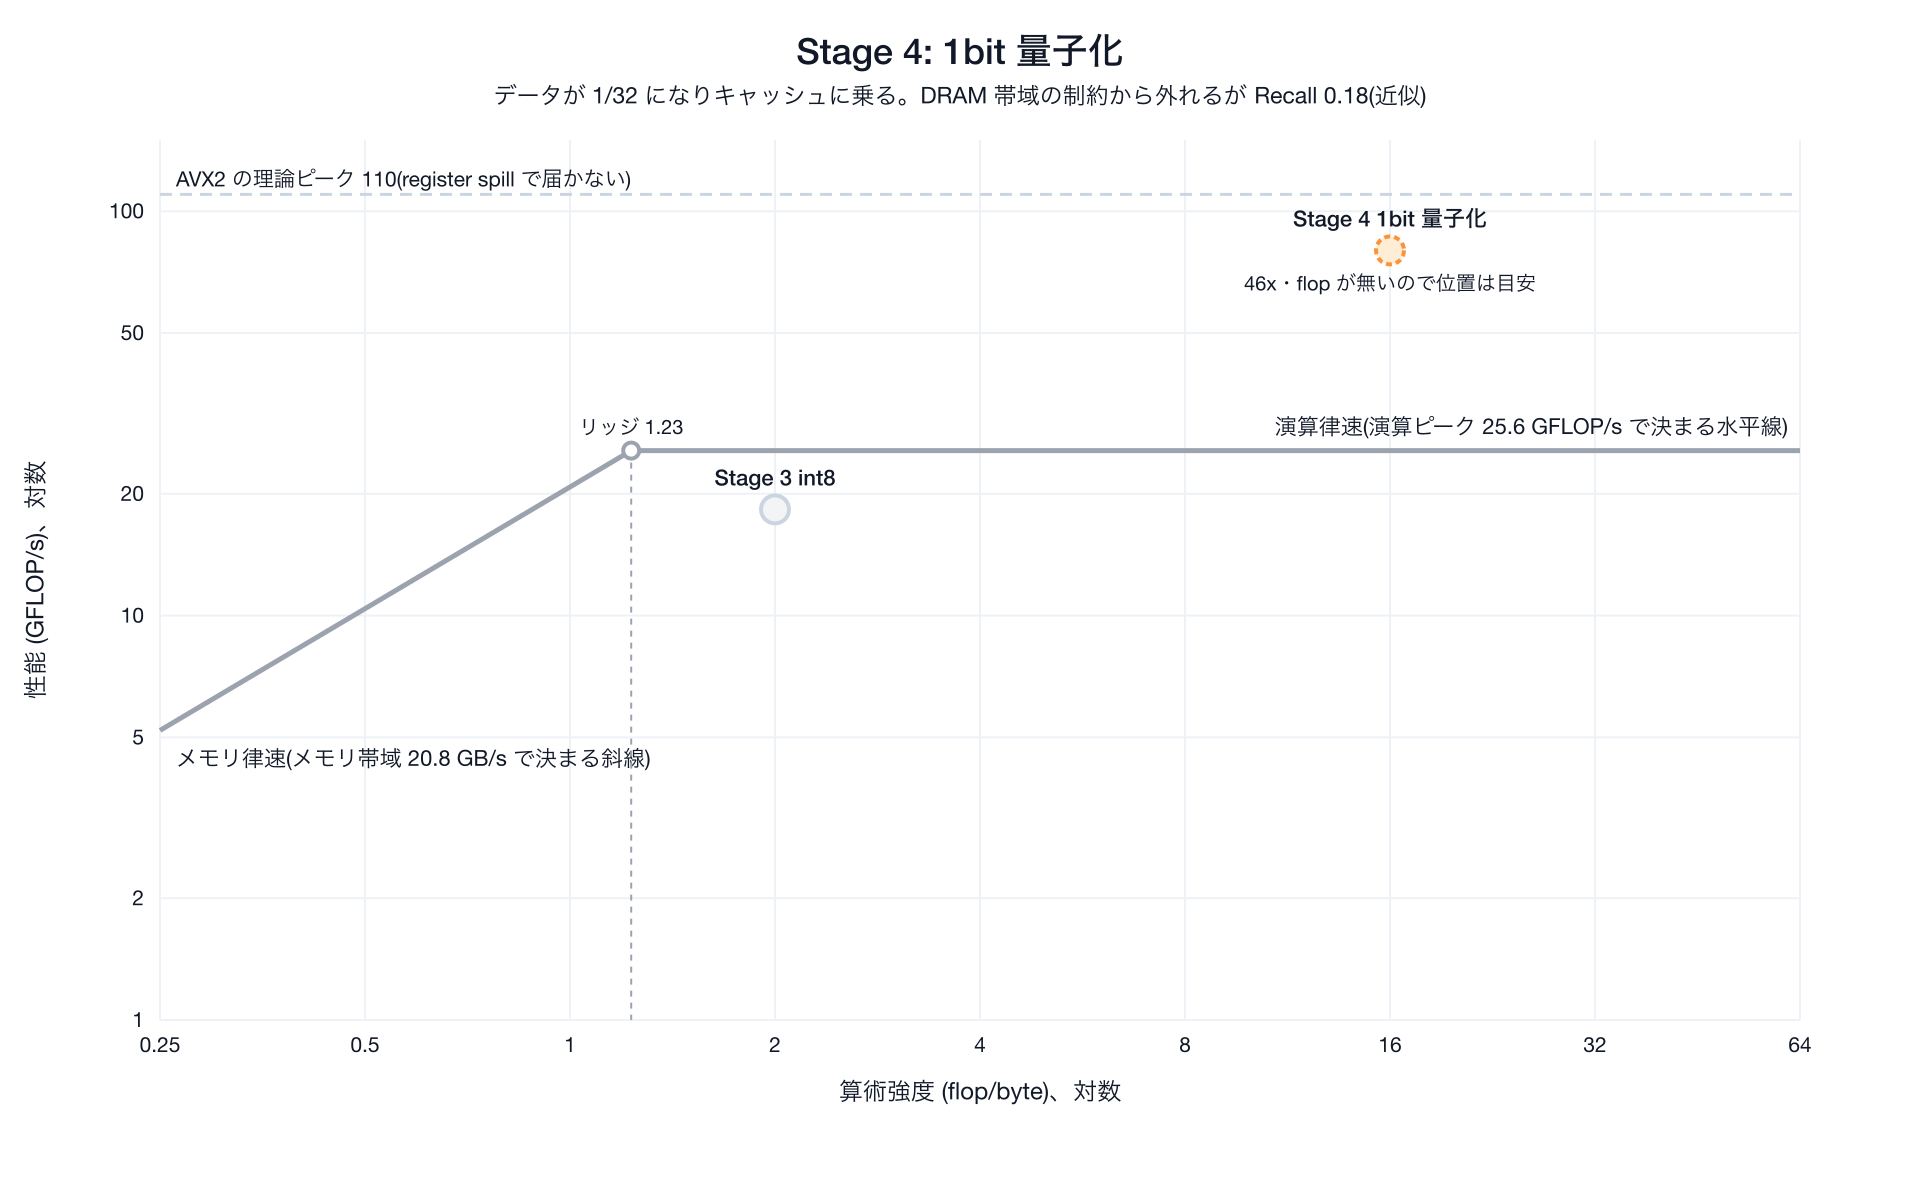
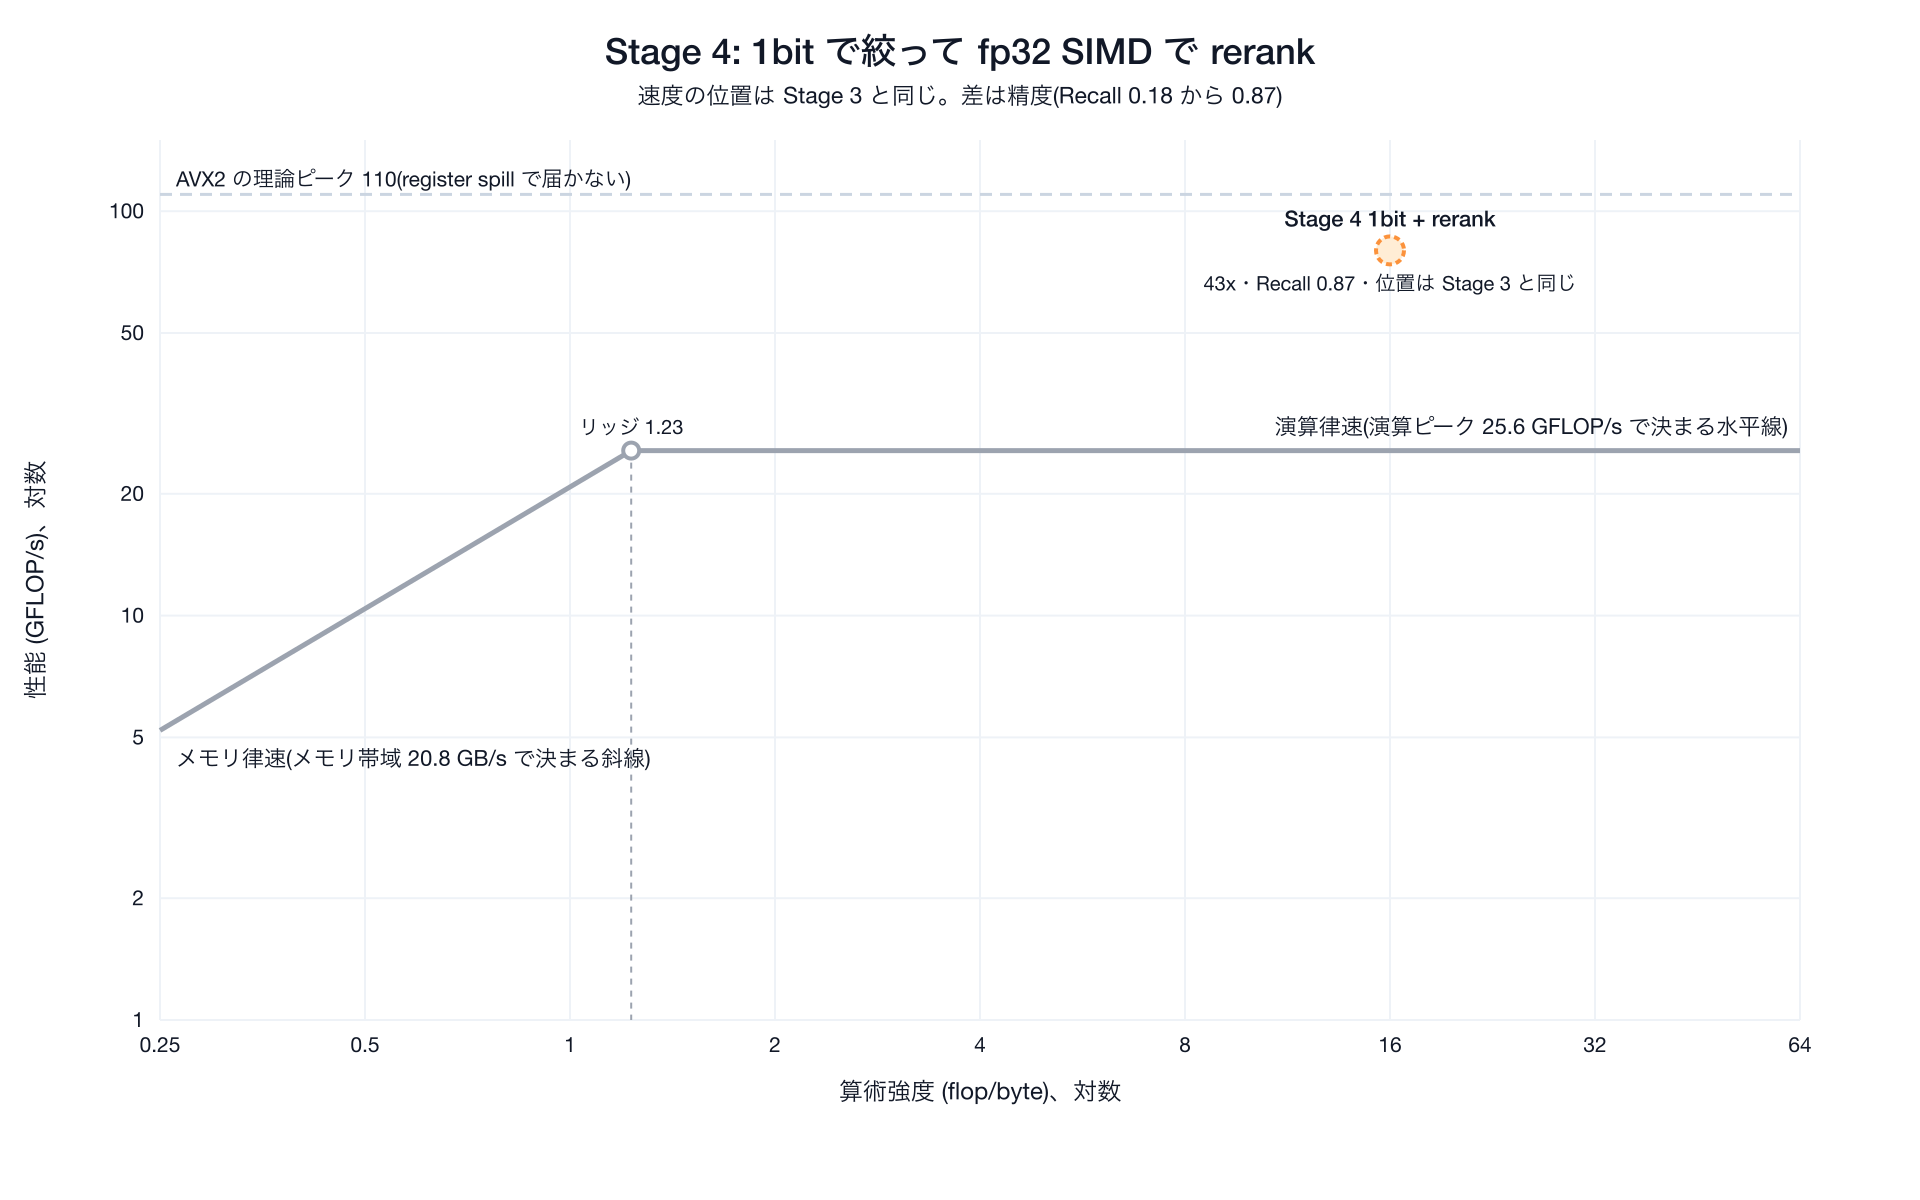
docs: Stage 番号を振り直し(3→2、4→3、5→4)、バッチ化は番号なしで付録へ
バッチ化を付録に移した結果の欠番をやめ、本編を Stage 0→1→2(int8)→3(1bit)→4(rerank)
に振り直す。バッチ化は「クエリのバッチ化」として番号なしで付録 7 節に置く。

- workshop.md / appendix.md / setup.md / Makefile / コードコメント /
  isa-report・roofline-plot の出力文言を一括で追従
- 図は rl-stage2(旧バッチ)を rl-batch に、rl-stage3〜5 を rl-stage2〜4 に改名し、
  タイトル・凡例・注記を新番号で再生成
- まとめ表の遷移ラベル(Stage 1→2 など)と複合表記(Stage 0〜5、Stage 4/5 等)も修正

Claude-Session: https://claude.ai/code/session_01TBZQnjYJzkxaC3BBCYE5nD

Changed region(s): [[0.2812, 0.0308, 0.75, 0.0925], [0.625, 0.1542, 0.8125, 0.2467], [0.375, 0.37, 0.4375, 0.4317]]

diff --git a/cmd/roofline-figures/main.go b/cmd/roofline-figures/main.go
@@ -74,11 +74,11 @@ func main() {
 func figures(peak, bw, ridge float64) []fig {
 	s0 := pt{name: "Stage 0 スカラ全探索", ai: 0.5, gf: 2.15}
 	s1 := pt{name: "Stage 1 SIMD 全探索", ai: 0.5, gf: 9.7}
-	s2 := pt{name: "Stage 2 SIMD バッチ(B=32)", ai: 16, gf: 13.3}
-	s2s := pt{name: "Stage 2 スカラ バッチ(B=32)", ai: 16, gf: 2.24, side: "below"}
-	s3 := pt{name: "Stage 3 int8", ai: 2, gf: 18.3, note: "18.3 Gop/s・上限の 72%"}
-	s4 := pt{name: "Stage 4 1bit 量子化", ai: 16, gf: 80, note: "46x・flop が無いので位置は目安", vague: true}
-	s5 := pt{name: "Stage 5 1bit + rerank", ai: 16, gf: 80, note: "43x・Recall 0.87・位置は Stage 4 と同じ", vague: true}
+	s2 := pt{name: "バッチ SIMD(B=32)", ai: 16, gf: 13.3}
+	s2s := pt{name: "バッチ スカラ(B=32)", ai: 16, gf: 2.24, side: "below"}
+	s3 := pt{name: "Stage 2 int8", ai: 2, gf: 18.3, note: "18.3 Gop/s・上限の 72%"}
+	s4 := pt{name: "Stage 3 1bit 量子化", ai: 16, gf: 80, note: "46x・flop が無いので位置は目安", vague: true}
+	s5 := pt{name: "Stage 4 1bit + rerank", ai: 16, gf: 80, note: "43x・Recall 0.87・位置は Stage 3 と同じ", vague: true}
 	ghost := func(p pt) pt { p.ghost = true; p.note = " "; return p }
 
 	return []fig{
@@ -93,21 +93,21 @@ func figures(peak, bw, ridge float64) []fig {
 			title:    "Stage 1: SIMD 化",
 			subtitle: "全探索はメモリ帯域の上限に達する(9.7 GF、上限の 93%)",
 			points:   []pt{ghost(s0), s1}},
-		{file: "rl-stage2",
-			title:    "Stage 2: クエリのバッチ化(B=32)",
+		{file: "rl-batch",
+			title:    "クエリのバッチ化(B=32・付録)",
 			subtitle: "算術強度 が 0.5 から 16 に動き、リッジを越えて演算律速側へ。exact のまま SIMD がスカラより 5.9x 速い",
 			points:   []pt{ghost(s1), s2, s2s}},
-		{file: "rl-stage3",
-			title:    "Stage 3: int8 量子化",
+		{file: "rl-stage2",
+			title:    "Stage 2: int8 量子化",
 			subtitle: "算術強度 が 0.5 から 2 に動きリッジを越える。ただし演算ピークの下(int8 内積の速さで頭打ち)。Recall 0.948",
 			points:   []pt{ghost(s1), s3}},
-		{file: "rl-stage4",
-			title:    "Stage 4: 1bit 量子化",
+		{file: "rl-stage3",
+			title:    "Stage 3: 1bit 量子化",
 			subtitle: "データが 1/32 になりキャッシュに乗る。DRAM 帯域の制約から外れるが Recall 0.18(近似)",
 			points:   []pt{ghost(s3), s4}},
-		{file: "rl-stage5",
-			title:    "Stage 5: 1bit で絞って fp32 SIMD で rerank",
-			subtitle: "速度の位置は Stage 4 と同じ。差は精度(Recall 0.18 から 0.87)",
+		{file: "rl-stage4",
+			title:    "Stage 4: 1bit で絞って fp32 SIMD で rerank",
+			subtitle: "速度の位置は Stage 3 と同じ。差は精度(Recall 0.18 から 0.87)",
 			points:   []pt{s5}},
 		{file: "roofline-plot",
 			title:    "実測ルーフライン全体像(Codespaces / AMD EPYC 7763)",
@@ -115,8 +115,8 @@ func figures(peak, bw, ridge float64) []fig {
 			points:   []pt{s0, s1, s2, s3, s4},
 			notes: []string{
 				"Stage 0 から 1: 縦に上がりメモリ帯域の上限で止まる(算術強度 0.5 はリッジの左)",
-				"Stage 1 から 2 / 3: 算術強度 を右に動かすとリッジを越え、SIMD が効く側に入る",
-				"Stage 4: データを 1/32 にしてキャッシュに乗せる。flop が無いので点の位置は目安",
+				"Stage 1 からバッチ / Stage 2: 算術強度 を右に動かすとリッジを越え、SIMD が効く側に入る",
+				"Stage 3: データを 1/32 にしてキャッシュに乗せる。flop が無いので点の位置は目安",
 			}},
 	}
 }

diff --git a/cmd/isa-report/report_amd64.go b/cmd/isa-report/report_amd64.go
@@ -43,13 +43,13 @@ var apis = []api{
 	{"Stage 1", "Float32x8.MulAdd", "VFMADD213PS", "FMA", archsimd.X86.FMA},
 	{"Stage 1", "archsimd.ClearAVXUpperBits", "VZEROUPPER", "AVX", archsimd.X86.AVX},
 
-	// Stage 3 — int8 dot (AVX2 only)
-	{"Stage 3", "LoadInt8x16", "VMOVDQU", "AVX2", archsimd.X86.AVX2},
-	{"Stage 3", "Int8x16.ExtendToInt16", "VPMOVSXBW", "AVX2", archsimd.X86.AVX2},
-	{"Stage 3", "Int16x16.DotProductPairs", "VPMADDWD", "AVX2", archsimd.X86.AVX2},
+	// Stage 2 — int8 dot (AVX2 only)
+	{"Stage 2", "LoadInt8x16", "VMOVDQU", "AVX2", archsimd.X86.AVX2},
+	{"Stage 2", "Int8x16.ExtendToInt16", "VPMOVSXBW", "AVX2", archsimd.X86.AVX2},
+	{"Stage 2", "Int16x16.DotProductPairs", "VPMADDWD", "AVX2", archsimd.X86.AVX2},
 
-	// Stage 4 — binary search (scalar path in production)
-	{"Stage 4", "vec.Hamming → bits.OnesCount64", "POPCNT", "(scalar POPCNT, not archsimd)", func() bool { return true }},
+	// Stage 3 — binary search (scalar path in production)
+	{"Stage 3", "vec.Hamming → bits.OnesCount64", "POPCNT", "(scalar POPCNT, not archsimd)", func() bool { return true }},
 
 	// 付録 3 節 — Uint64x4 Hamming SIMD
 	{"付録 3 節", "LoadUint64x4", "VMOVDQU", "AVX2", archsimd.X86.AVX2},
@@ -57,8 +57,8 @@ var apis = []api{
 	{"付録 3 節", "Uint64x4.OnesCount", "VPOPCNTQ", "AVX512VPOPCNTDQ", archsimd.X86.AVX512VPOPCNTDQ},
 	{"付録 3 節", "archsimd.ClearAVXUpperBits", "VZEROUPPER", "AVX", archsimd.X86.AVX},
 
-	// Stage 5 — rerank calls vec.Dot (Stage 1 guard)
-	{"Stage 5", "vec.Dot in SearchBinaryRerank", "(Stage 1 APIs)", "AVX2+FMA", func() bool {
+	// Stage 4 — rerank calls vec.Dot (Stage 1 guard)
+	{"Stage 4", "vec.Dot in SearchBinaryRerank", "(Stage 1 APIs)", "AVX2+FMA", func() bool {
 		return archsimd.X86.AVX2() && archsimd.X86.FMA()
 	}},
 }
@@ -141,10 +141,10 @@ func stageSummaries(hasSIMD, hasVPOPCNT bool) []stageSummary {
 	return []stageSummary{
 		{"Stage 0: scalar baseline", "(always)", "yes"},
 		{"Stage 1: SIMD dot", "archsimd.X86.AVX2() && FMA()", dot},
-		{"Stage 2: batch (same APIs as Stage 1)", "archsimd.X86.AVX2() && FMA()", dot},
-		{"Stage 3: int8 quantization", "archsimd.X86.AVX2()", dot8},
-		{"Stage 4: binary quantization", "scalar Hamming (POPCNT)", "yes"},
-		{"Stage 5: binary + rerank", "Hamming + Dot guard", rerank},
+		{"batch (B=32, same APIs as Stage 1)", "archsimd.X86.AVX2() && FMA()", dot},
+		{"Stage 2: int8 quantization", "archsimd.X86.AVX2()", dot8},
+		{"Stage 3: binary quantization", "scalar Hamming (POPCNT)", "yes"},
+		{"Stage 4: binary + rerank", "Hamming + Dot guard", rerank},
 		{"付録 3 節: AVX-512 Hamming", "AVX512() && AVX512VPOPCNTDQ()", bonus},
 	}
 }
@@ -154,7 +154,7 @@ func sortedKeys(m map[string][]api) []string {
 	for k := range m {
 		keys = append(keys, k)
 	}
-	order := map[string]int{"Stage 0": 0, "Stage 1": 1, "Stage 3": 2, "Stage 4": 3, "Stage 5": 4, "付録 3 節": 5}
+	order := map[string]int{"Stage 0": 0, "Stage 1": 1, "Stage 2": 2, "Stage 3": 3, "Stage 4": 4, "付録 3 節": 5}
 	sort.Slice(keys, func(i, j int) bool {
 		oi, oj := order[keys[i]], order[keys[j]]
 		if oi != oj {

diff --git a/cmd/roofline-plot/main.go b/cmd/roofline-plot/main.go
@@ -6,7 +6,7 @@
 // The point of the *interactive* version (vs the static docs/images/rl-*.png)
 // is that every run re-measures and re-plots: you watch the point appear and
 // stick to a ceiling. Stage 1 (AI=0.5) pins to the memory roof; the batched
-// Stage 2 (AI=16) crosses the ridge onto the compute roof.
+// The batch point (AI=16) crosses the ridge onto the compute roof.
 //
 // Usage (see `make roofline-plot`):
 //
@@ -18,7 +18,7 @@
 // `make roofline-ceiling`. Zero dependencies — same hand-built-SVG style as
 // cmd/roofline-decompose. Benchmarks without AI/GFLOP/s (e.g. SearchBinary,
 // which uses Hamming distance, not flop) are skipped: they live on a different
-// axis and are covered by the static Stage 3 image instead.
+// axis and are covered by the static Stage 2 image instead.
 package main
 
 import (
@@ -46,9 +46,9 @@ func label(raw string) string {
 	case "SearchSIMD":
 		return "Stage 1  SIMD (B=1)"
 	case "SearchBatchNaive":
-		return "Stage 2  scalar batch (B=32)"
+		return "scalar batch (B=32)"
 	case "SearchBatchSIMD":
-		return "Stage 2  SIMD batch (B=32)"
+		return "SIMD batch (B=32)"
 	}
 	return strings.TrimPrefix(raw, "Search")
 }

diff --git a/internal/index/index.go b/internal/index/index.go
@@ -16,7 +16,7 @@ type Result struct {
 
 // Index holds the vectors in multiple representations:
 // float32(正確・重い)、binary code(粗い・1/32 サイズ)、
-// int8 code(Stage 3: 1/4 サイズ・BuildInt8 で構築)。
+// int8 code(Stage 2: 1/4 サイズ・BuildInt8 で構築)。
 type Index struct {
 	Dim   int
 	Words int
@@ -24,7 +24,7 @@ type Index struct {
 	Data  []float32 // N*Dim, row-major
 	Codes []uint64  // N*Words, sign-bit quantized
 
-	// Stage 3(int8 量子化)。BuildInt8() を呼ぶまで空。
+	// Stage 2(int8 量子化)。BuildInt8() を呼ぶまで空。
 	Codes8 []int8    // N*Dim, symmetric int8 quantized
 	Scales []float32 // N, per-vector scale(復元は q8*scale ≈ fp32)
 }
@@ -85,7 +85,7 @@ func (ix *Index) SearchPortable(q []float32, k int) []Result {
 	return t.results()
 }
 
-// SearchBinary is Stage 4: scan over binary codes with Hamming distance.
+// SearchBinary is Stage 3: scan over binary codes with Hamming distance.
 // Score は -距離(距離が小さいほど良い)。
 func (ix *Index) SearchBinary(q []float32, k int) []Result {
 	code := make([]uint64, ix.Words)

diff --git a/cmd/isa-report/report_arm64.go b/cmd/isa-report/report_arm64.go
@@ -26,13 +26,13 @@ var apis = []api{
 	{"Stage 1", "LoadFloat32x4", "LDR Q / VLD1"},
 	{"Stage 1", "Float32x4.MulAdd", "FMLA"},
 	{"Stage 1", "Float32x4.Store", "STR Q / VST1"},
-	{"Stage 3", "LoadInt8x16", "LDR Q / VLD1"},
-	{"Stage 3", "Int8x16.MulWidenLo", "SMULL"},
-	{"Stage 3", "Int8x16.HiToLo", "EXT"},
-	{"Stage 3", "Int16x8.ExtendLo4ToInt32", "SXTL"},
-	{"Stage 3", "Int32x4.ReduceSum", "ADDV"},
-	{"Stage 4", "vec.Hamming → bits.OnesCount64", "CNT + ADDV (Go intrinsic)"},
-	{"Stage 5", "vec.Dot in SearchBinaryRerank", "(Stage 1 APIs)"},
+	{"Stage 2", "LoadInt8x16", "LDR Q / VLD1"},
+	{"Stage 2", "Int8x16.MulWidenLo", "SMULL"},
+	{"Stage 2", "Int8x16.HiToLo", "EXT"},
+	{"Stage 2", "Int16x8.ExtendLo4ToInt32", "SXTL"},
+	{"Stage 2", "Int32x4.ReduceSum", "ADDV"},
+	{"Stage 3", "vec.Hamming → bits.OnesCount64", "CNT + ADDV (Go intrinsic)"},
+	{"Stage 4", "vec.Dot in SearchBinaryRerank", "(Stage 1 APIs)"},
 }
 
 func run() {

diff --git a/internal/index/int8.go b/internal/index/int8.go
@@ -2,7 +2,7 @@ package index
 
 import "github.com/po3rin/gocon2026-simd-search/internal/vec"
 
-// BuildInt8 は全ベクトルの int8 表現(1/4 サイズ)を構築する(Stage 3)。
+// BuildInt8 は全ベクトルの int8 表現(1/4 サイズ)を構築する(Stage 2)。
 // binary(1/32)と違い大きさの情報が残るので、rerank なしでも Recall が実用域。
 func (ix *Index) BuildInt8() {
 	ix.Codes8 = make([]int8, ix.N*ix.Dim)
@@ -17,7 +17,7 @@ func (ix *Index) Code8(id int) []int8 {
 	return ix.Codes8[id*ix.Dim : (id+1)*ix.Dim]
 }
 
-// SearchInt8 は int8 量子化した表現で全探索する(Stage 3)。
+// SearchInt8 は int8 量子化した表現で全探索する(Stage 2)。
 // スコアは qScale*dScale*dot_int8 ≈ fp32 の内積(近似)。
 // 転送は 1ベクトル 384 byte(fp32 の 1/4)→ AI が4倍に上がる。
 func (ix *Index) SearchInt8(q []float32, k int) []Result {

diff --git a/internal/index/bench_test.go b/internal/index/bench_test.go
@@ -108,7 +108,7 @@ func BenchmarkSearchPortable(b *testing.B) {
 	b.ReportMetric(float64(vec.PortableVectorBits()), "vec-bits")
 }
 
-// Stage 4: バイナリ量子化 + スカラー popcount。右上に動いて DRAM 律速を脱出。
+// Stage 3: バイナリ量子化 + スカラー popcount。右上に動いて DRAM 律速を脱出。
 func BenchmarkSearchBinary(b *testing.B) {
 	benchSetup()
 	b.SetBytes(benchN * benchDim / 8)
@@ -129,7 +129,7 @@ func BenchmarkSearchBinarySIMD(b *testing.B) {
 	reportBinaryRoofline(b)
 }
 
-// Stage 5(仕上げ): バイナリ検索 + float32 rerank(精度軸。Recall@10 0.18→0.87)。
+// Stage 4(仕上げ): バイナリ検索 + float32 rerank(精度軸。Recall@10 0.18→0.87)。
 func BenchmarkSearchBinaryRerank(b *testing.B) {
 	benchSetup()
 	for b.Loop() {

diff --git a/internal/index/int8_test.go b/internal/index/int8_test.go
@@ -6,7 +6,7 @@ import (
 )
 
 // TestRecallInt8 measures Recall@10 of the int8 stage on clustered data
-// (Stage 3)。binary(0.18)と違い、大きさの情報が残るので単体で実用域に入る(実測 0.948)。
+// (Stage 2)。binary(0.18)と違い、大きさの情報が残るので単体で実用域に入る(実測 0.948)。
 func TestRecallInt8(t *testing.T) {
 	const (
 		n        = 20_000
@@ -55,7 +55,7 @@ func TestRecallInt8(t *testing.T) {
 	}
 }
 
-// Stage 3: int8 量子化(1/4 サイズ)での全探索。
+// Stage 2: int8 量子化(1/4 サイズ)での全探索。
 func BenchmarkSearchInt8(b *testing.B) {
 	benchSetup()
 	benchIx.BuildInt8()

diff --git a/internal/vec/dot_portable.go b/internal/vec/dot_portable.go
@@ -16,7 +16,7 @@ import "simd"
 // Codespaces(EPYC 7763)実測では 256bit で archsimd 版と同じ点(メモリ帯域の上限)に乗る
 // (make bench-portable)。
 //
-// 一方、Stage 3 の int8 積和(VPMADDWD / SMULL)や付録 B の popcount は
+// 一方、Stage 2 の int8 積和(VPMADDWD / SMULL)や付録 B の popcount は
 // ポータブル API には無い(アーキ間で共通に持てる演算だけが入っている)ので、
 // 量子化版の内積とハミング距離は archsimd のままにしてある。
 func DotPortable(a, b []float32) float32 {

diff --git a/internal/index/maxsim.go b/internal/index/maxsim.go
@@ -13,7 +13,7 @@ import (
 //	score(q, d) = Σ_{qt∈q} max_{dt∈d} dot(qt, dt)
 //
 // 文書トークン dt を1回ロードするとクエリトークン全部(Tq 本)と内積するので、
-// バッチ化(Stage 2)と同じ「1ロードに対し多数の計算」がタスクの仕様として内在する
+// バッチ化(付録 7 節)と同じ「1ロードに対し多数の計算」がタスクの仕様として内在する
 // = 最初から演算律速で、SIMD が最初から効く。
 type MultiIndex struct {
 	Dim  int

diff --git a/internal/vec/hamming.go b/internal/vec/hamming.go
@@ -20,7 +20,7 @@ func Quantize(v []float32, out []uint64) {
 
 // Hamming returns the number of differing bits between a and b.
 //
-// Stage 4 の距離計算。XOR + popcount だけで距離が出る。
+// Stage 3 の距離計算。XOR + popcount だけで距離が出る。
 // math/bits.OnesCount64 はスカラーの POPCNT 命令にコンパイルされる。
 // SIMD 版 popcount(VPOPCNTQ)は AVX512VPOPCNTDQ が必要なので付録 3 節(make bench-bonus)で扱う。
 func Hamming(a, b []uint64) int {

diff --git a/internal/vec/int8_simd.go b/internal/vec/int8_simd.go
@@ -8,7 +8,7 @@ import "simd/archsimd"
 // すべて AVX2 で足りる(FMA 不要)。
 var hasInt8SIMD = archsimd.X86.AVX2()
 
-// DotInt8 は int8 ベクトルの内積を AVX2 で計算する(Stage 3)。
+// DotInt8 は int8 ベクトルの内積を AVX2 で計算する(Stage 2)。
 //
 // 1イテレーションで int8 を16個: sign-extend で int16x16 に広げ(VPMOVSXBW)、
 // DotProductPairs(VPMADDWD)が「隣り合う2要素の積和」を int32x8 で返すので
